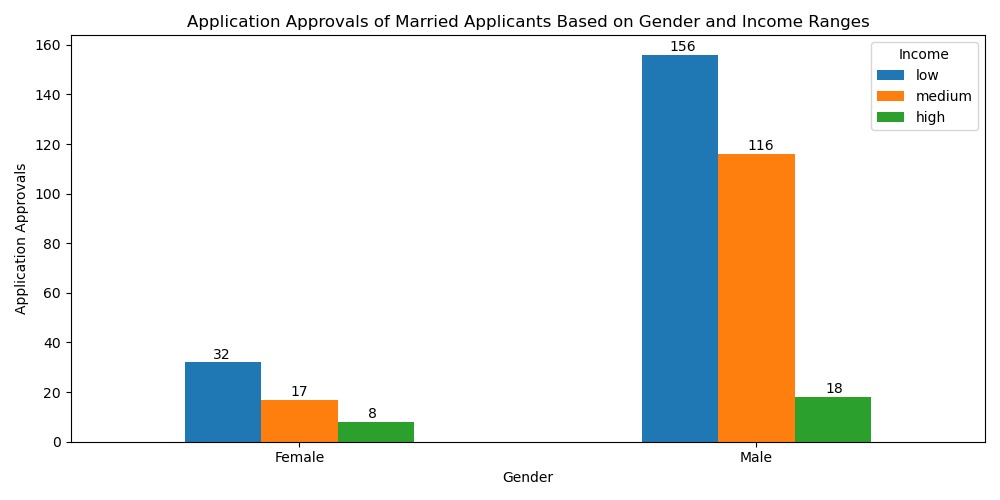
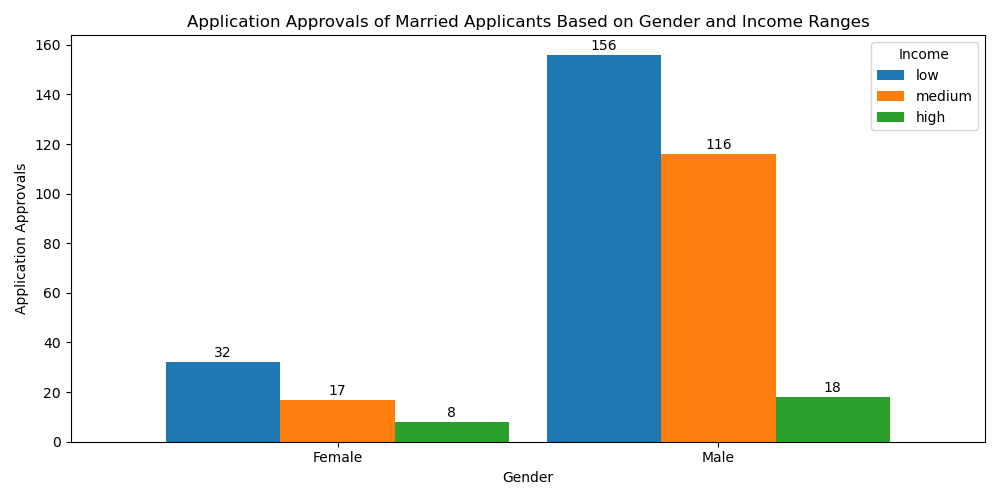
Completed graph showing application approvals based on property area. Added screenshot to folder. Modified section 5.1 and updated screenshot

diff --git a/.venv/5_loanappdataviz.py b/.venv/5_loanappdataviz.py
@@ -13,20 +13,37 @@ loan_df=spark.read.format("jdbc").options(driver="com.mysql.cj.jdbc.Driver",\
                                      url="jdbc:mysql://localhost:3306/creditcard_capstone",\
                                      dbtable="creditcard_capstone.cdw_sapp_loan_application").load().toPandas()
 
+
 married_income = loan_df[['Application_Status','Gender','Income']]
 married_income = married_income[(married_income['Application_Status']=='Y')].drop(['Application_Status'], axis=1)
 married_income = married_income.groupby('Gender')['Income'].value_counts().unstack()
 married_income = married_income.reindex(columns=['low','medium','high'])
 
-married_income.plot(kind='bar', figsize=(10, 5), ylabel='Application Approvals',
+bar_width = 0.9
+num_of_bars = len(married_income.columns)
+married_income.plot(kind='bar', figsize=(10, 5), ylabel='Application Approvals', width=bar_width,
                     title='Application Approvals of Married Applicants Based on Gender and Income Ranges')
 
-for i in range(len(married_income)):
-    plt.text(i-0.19,married_income['low'][i]+1.5,married_income['low'][i])
-    plt.text(i-0.02,married_income['medium'][i]+1.5,married_income['medium'][i])
-    plt.text(i+0.15,married_income['high'][i]+1.5,married_income['high'][i])
+spacing = -bar_width/num_of_bars
+for income, counts in married_income.items():
+    for index, count in enumerate(counts):
+        plt.text(index+spacing, count+2, count, ha='center')
+    spacing += bar_width/num_of_bars
     
 plt.xticks(rotation=0)
+plt.tight_layout()
+plt.show()
+
+
+bar_width=0.5
+prop_area = loan_df[['Application_Status','Property_Area']]
+prop_area = prop_area.groupby('Application_Status')['Property_Area'].value_counts().unstack()
+prop_area.plot(kind='barh', figsize=(10,5), width=bar_width,
+               stacked=True, xlabel='Application Status',
+               title='Application Approvals Based on Property Area')
+
+tick_labels = ['Denied','Approved']
+plt.yticks(ticks=range(len(tick_labels)), labels=tick_labels, rotation=0)
 plt.tight_layout()
 plt.show()
 
